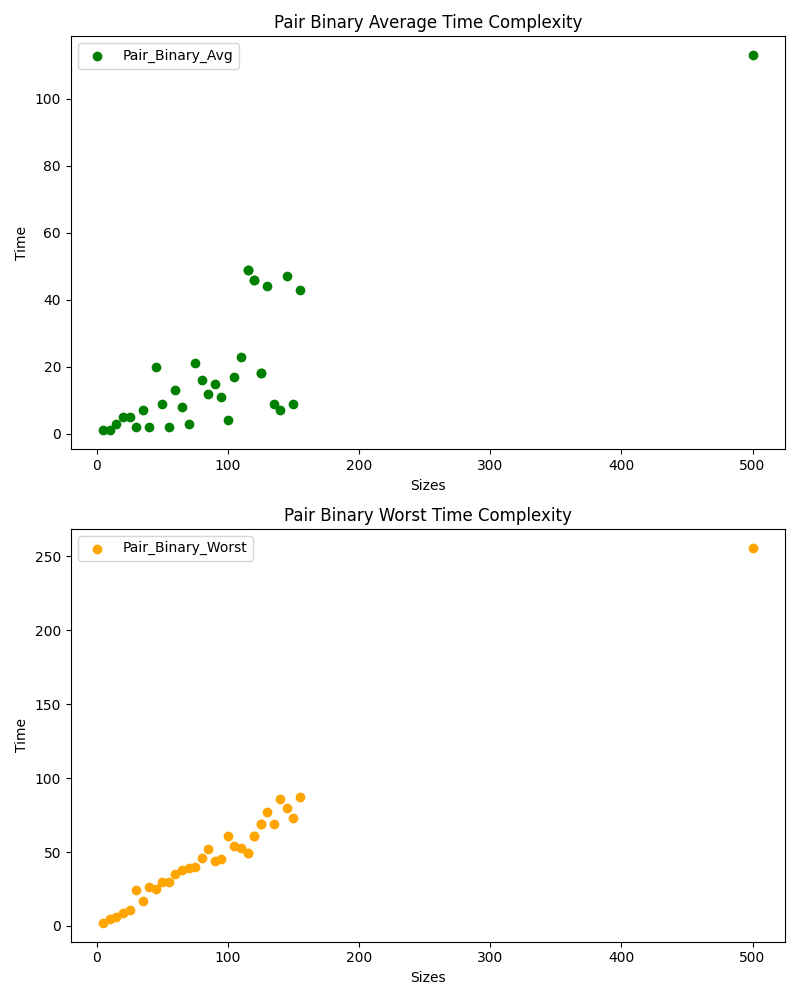
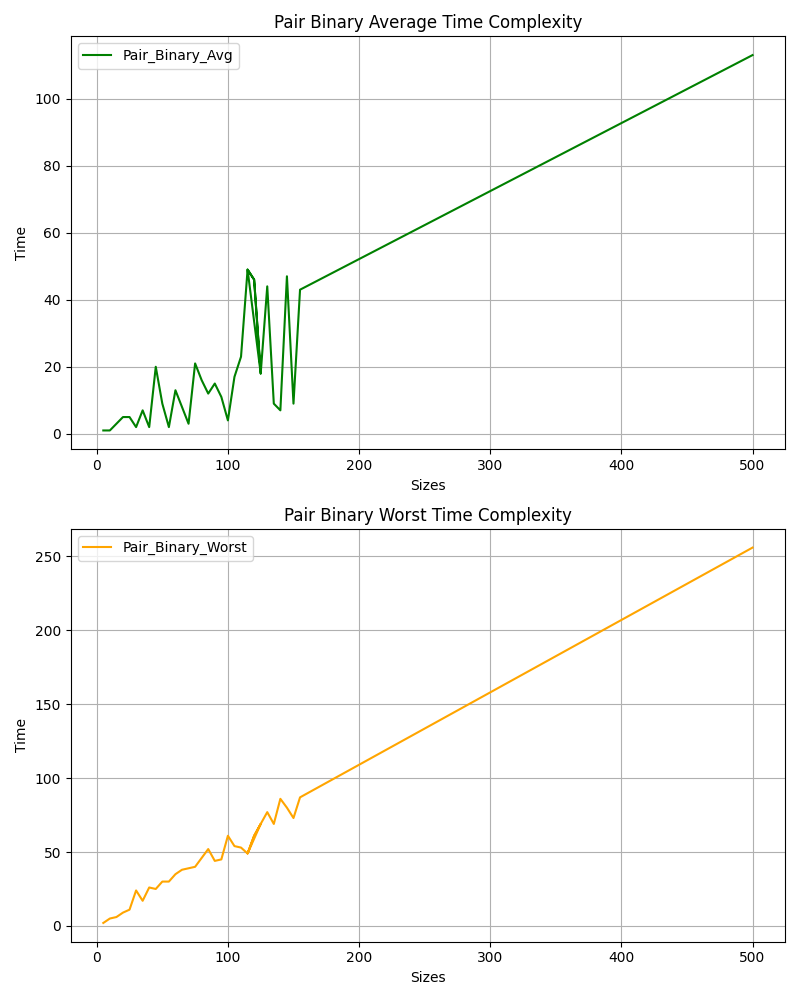
upd 2025-03-03

diff --git a/term2/cpp/labs/lab01/graphs.py b/term2/cpp/labs/lab01/graphs.py
@@ -18,25 +18,28 @@ with open('data/const_data_strategy.txt', 'r') as f:
 fig, axes = plt.subplots(3, 1, figsize=(8, 10))  
 
 # Strategy A
-axes[0].scatter(sizes_strategy, strategy_a, label='StrategyA', color='blue')
+axes[0].plot(sizes_strategy, strategy_a, label='StrategyA', color='blue')
 axes[0].set_xlabel('Sizes')
 axes[0].set_ylabel('Time, ms')
 axes[0].set_title('StrategyA Time Complexity')
 axes[0].legend()
+axes[0].grid(True)
 
 # Strategy B
-axes[1].scatter(sizes_strategy, strategy_b, label='StrategyB', color='green')
+axes[1].plot(sizes_strategy, strategy_b, label='StrategyB', color='green')
 axes[1].set_xlabel('Sizes')
 axes[1].set_ylabel('Time')
 axes[1].set_title('StrategyB Time Complexity')
 axes[1].legend()
+axes[1].grid(True)
 
 # Strategy C
-axes[2].scatter(sizes_strategy, strategy_c, label='StrategyC', color='red')
+axes[2].plot(sizes_strategy, strategy_c, label='StrategyC', color='red')
 axes[2].set_xlabel('Sizes')
 axes[2].set_ylabel('Time')
 axes[2].set_title('StrategyC Time Complexity')
 axes[2].legend()
+axes[2].grid(True)
 
 plt.tight_layout()
 plt.savefig('graph/strategy_graph.png')
@@ -60,34 +63,40 @@ with open('data/const_data_search.txt', 'r') as f:
 
 fig, axes = plt.subplots(2, 1, figsize=(8, 10))  
 
-axes[0].scatter(sizes_search, linear_avg, label='Linear_Avg', color='blue')
+axes[0].plot(sizes_search, linear_avg, label='Linear_Avg', color='blue')
+axes[0].plot(sizes_search, [i * (linear_worst[len(linear_worst) - 1] / sizes_search[len(linear_worst) - 1]) for i in sizes_search], label='O(n)', color='gray', linestyle='--')
 axes[0].set_xlabel('Sizes')
 axes[0].set_ylabel('Time')
 axes[0].set_title('Linear Average Time Complexity')
 axes[0].legend()
+axes[0].grid(True)
 
-axes[1].scatter(sizes_search, linear_worst, label='Linear_Worst', color='red')
+axes[1].plot(sizes_search, linear_worst, label='Linear_Worst', color='red')
+axes[1].plot(sizes_search, [i * (linear_worst[len(linear_worst) - 1] / sizes_search[len(linear_worst) - 1]) for i in sizes_search], label='O(n)', color='gray', linestyle='--')
 axes[1].set_xlabel('Sizes')
 axes[1].set_ylabel('Time')
 axes[1].set_title('Linear Worst Time Complexity')
 axes[1].legend()
+axes[1].grid(True)
 
 plt.tight_layout()
 plt.savefig('graph/linear_graph.png')
 
 fig, axes = plt.subplots(2, 1, figsize=(8, 10))  
 
-axes[0].scatter(sizes_search, binary_avg, label='Binary_Avg', color='green')
+axes[0].plot(sizes_search, binary_avg, label='Binary_Avg', color='green')
 axes[0].set_xlabel('Sizes')
 axes[0].set_ylabel('Time')
 axes[0].set_title('Binary Average Time Complexity')
 axes[0].legend()
+axes[0].grid(True)
 
-axes[1].scatter(sizes_search, binary_worst, label='Binary_Worst', color='orange')
+axes[1].plot(sizes_search, binary_worst, label='Binary_Worst', color='orange')
 axes[1].set_xlabel('Sizes')
 axes[1].set_ylabel('Time')
 axes[1].set_title('Binary Worst Time Complexity')
 axes[1].legend()
+axes[1].grid(True)
 
 plt.tight_layout()
 plt.savefig('graph/binary_graph.png')
@@ -115,34 +124,38 @@ with open('data/const_data_pair.txt', 'r') as f:
 
 fig, axes = plt.subplots(2, 1, figsize=(8, 12))  
 
-axes[0].scatter(sizes_pair, pair_linear_avg, label='Pair_Linear_Avg', color='blue')
+axes[0].plot(sizes_pair, pair_linear_avg, label='Pair_Linear_Avg', color='blue')
 axes[0].set_xlabel('Sizes')
 axes[0].set_ylabel('Time')
 axes[0].set_title('Pair Linear Average Time Complexity')
 axes[0].legend()
+axes[0].grid(True)
 
-axes[1].scatter(sizes_pair, pair_linear_worst, label='Pair_Linear_Worst', color='red')
+axes[1].plot(sizes_pair, pair_linear_worst, label='Pair_Linear_Worst', color='red')
 axes[1].set_xlabel('Sizes')
 axes[1].set_ylabel('Time')
 axes[1].set_title('Pair Linear Worst Time Complexity')
 axes[1].legend()
+axes[1].grid(True)
 
 plt.tight_layout()
 plt.savefig('graph/pair_linear_graph.png')
 
 fig, axes = plt.subplots(2, 1, figsize=(8, 10))  
 
-axes[0].scatter(sizes_pair, pair_binary_avg, label='Pair_Binary_Avg', color='green')
+axes[0].plot(sizes_pair, pair_binary_avg, label='Pair_Binary_Avg', color='green')
 axes[0].set_xlabel('Sizes')
 axes[0].set_ylabel('Time')
 axes[0].set_title('Pair Binary Average Time Complexity')
 axes[0].legend()
+axes[0].grid(True)
 
-axes[1].scatter(sizes_pair, pair_binary_worst, label='Pair_Binary_Worst', color='orange')
+axes[1].plot(sizes_pair, pair_binary_worst, label='Pair_Binary_Worst', color='orange')
 axes[1].set_xlabel('Sizes')
 axes[1].set_ylabel('Time')
 axes[1].set_title('Pair Binary Worst Time Complexity')
 axes[1].legend()
+axes[1].grid(True)
 
 plt.tight_layout()
 plt.savefig('graph/pair_binary_graph.png')

diff --git a/term2/cpp/labs/lab01/asymptotic_analysis.cpp b/term2/cpp/labs/lab01/asymptotic_analysis.cpp
@@ -102,8 +102,8 @@ bool FindPairSorted(const std::vector<int>& arr, int sum) {
 int main() {
   int search_values[] = {-1, 0, 1, 2, 3, 4, 5, 6, 7, 8, 9};
   int random_values[] = {0, 1, 2, 3, 4, 5, 6, 7, 8, 9};
-  const int cIterations = 25;
-  const int cMax_size = 25000;
+  const int cIterations = 250;
+  const int cMax_size = 2500;
 
   // std::vector<int> sizes = {100, 500, 1000, 5000, 10000, 50000, 100000, 500000, 1000000}; 
 
@@ -111,7 +111,7 @@ int main() {
   file_search << "N Linear_Avg Linear_Worst Binary_Avg Binary_Worst\n";
   
   // for (int size : sizes) {  
-  /* for (int size = 100; size < cMax_size; size += 100) {
+  for (int size = 50; size < cMax_size; size += 25) {
     std::vector<int> arr = GenerateRandomVector(size);
     std::vector<int> sorted_arr = GenerateRandomSortedVector(size);
 
@@ -131,9 +131,8 @@ int main() {
     file_search << size << " " << linear_avg_time << " " << linear_worst_time << " " << binary_avg_time << " " << binary_worst_time << "\n";
   }
   file_search.close();
-  */
-
-  std::ofstream file_pair("data/data_pair.txt");
+  
+  /* std::ofstream file_pair("data/data_pair.txt");
   file_pair << "N FindPair_Avg FindPair_Worst FindPairSorted_Avg FindPairSorted_Worst\n";
   
   for (int size = 5; size < cMax_size; size += 5) {
@@ -157,6 +156,7 @@ int main() {
     file_pair << size << " " << find_pair_avg_time << " " << find_pair_worst_time << " " << find_pair_sorted_avg_time << " " << find_pair_sorted_worst_time << "\n";
   }
   file_pair.close();
+  */
 
   return 0;
 }
